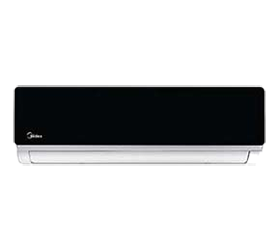
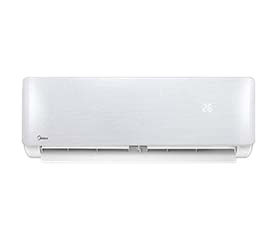
поменял карточки товаров и добавил строку в соцсети

Changed region(s): [[0.0286, 0.308, 0.9714, 0.672]]

diff --git a/index.html b/index.html
@@ -114,9 +114,9 @@
           </article>
           <!-- /.card -->
           <article class="card cards__card">
-            <h3 class="card__title">Midea HD-273</h3>
+            <h3 class="card__title">Midea HS-108</h3>
             <!-- /.card__title -->
-            <p class="card__description">Компактный холодильник с удобными полками для хранения продуктов. Двери со встроенными ручками и антибактериальным уплотнителем могут быть установлены с той стороны, с которой вам удобно их открывать.
+            <p class="card__description">Морозильник HS-108  имеет множество вариантов использования. Его можно поставить в офисе, в гостинице, в частном доме. Применяется техника для хранения продуктов в состоянии глубокой заморозки.
             </p>
             <a class="card__link" href="#">Подробнее</a>
             <!-- /.card__description -->
@@ -124,7 +124,7 @@
               <img class="card__img" src="img/cards/card-2.png" alt="Холодильник HD-273">
             </div>
             <div class="card__wrap">
-              <span class="card__price">295-305 у.е</span>
+              <span class="card__price">230 у.е</span>
               <button class="button card__button">Заказать</button></div>
             <!-- /.card__wrap -->
           </article>
@@ -148,11 +148,10 @@
           </article>
           <!-- /.card -->
           <article class="card cards__card">
-            <h3 class="card__title">Mirror *Low voltage 145-265v</h3>
+            <h3 class="card__title">Aurora *Low voltage 145-265v</h3>
             <!-- /.card__title -->
             <p class="card__description">
-              Кондиционер lux класса, с зеркальным дизайном. 
-              Главная составляющая сплит-системы - японский компрессор Toshiba, известен своей надежностью. А одним из важнейших преимуществ является встроенный стабилизатор, позволяющий работать даже при низком напряжении в электросети.
+              Современный кондиционер бизнес класса, имеет большой функционал с интересным дизайном. Главная составляющая сплит-системы - японский компрессор Toshiba, известен своей надежностью. А одним из важнейших преимуществ является встроенный стабилизатор, позволяющий работать даже при низком напряжении в электросети.
             </p>
             <a class="card__link" href="#">Подробнее</a>
             <!-- /.card__description -->
@@ -160,13 +159,26 @@
               <img class="card__img" src="img/cards/card-4.png" alt="Mirror *Low voltage 145-265v">
             </div>
             <div class="card__wrap">
-              <span class="card__price">470/780 у.е</span>
+              <span class="card__price">450/620/760 у.е</span>
               <button class="button card__button">Заказать</button></div>
             <!-- /.card__wrap -->
           </article>
           <!-- /.card -->
         </div>
         <!-- /.cards__wrap -->
+        <div class="more">
+          <h3 class="more__title">Еще больше товаров в наших группах в соц. сетях:</h3>
+          <div class="more__inner">
+            <a class="more__link" href="https://www.instagram.com/mediastore_uz">
+              <img class="more__img" src="img/cards/instagram.png" alt="instagram">
+            </a>
+            <a class="more__link" href="https://t.me/mediastore_uz">
+              <img class="more__img" src="img/cards/telegram.png" alt="telegram">
+            </a>
+          </div>
+          <!-- /.more__inner -->
+        </div>
+        <!-- /.more -->
       </div>
       <!-- /.container -->
     </section>

diff --git a/css/style.css b/css/style.css
@@ -441,6 +441,31 @@ a:hover {
 .card__link:hover {
   border-bottom: 1px dotted #707070;
 }
+/* больше товаров */
+.more {
+  display: -webkit-box;
+  display: -ms-flexbox;
+  display: flex;
+  -webkit-box-pack: center;
+      -ms-flex-pack: center;
+          justify-content: center;
+  -webkit-box-align: center;
+      -ms-flex-align: center;
+          align-items: center;
+}
+.more__title {
+  font-size: 2rem;
+  font-weight: normal;
+  text-align: center;
+}
+.more__link {
+  display: inline-block;
+  margin-left: 1.5rem;
+}
+.more__img {
+  width: 3rem;
+  height: 3rem;
+}
 @media (max-width: 1200px) {
   .card {
     max-width: 475px;
@@ -459,6 +484,15 @@ a:hover {
   }
   .cards__card {
     margin: 2rem;
+  }
+  .more {
+    -webkit-box-orient: vertical;
+    -webkit-box-direction: normal;
+        -ms-flex-direction: column;
+            flex-direction: column;
+  }
+  .more__inner {
+    margin-top: 1.5rem;
   }
 }
 /* скидка 10 % */

diff --git a/less/style.less b/less/style.less
@@ -434,6 +434,26 @@ a:hover {
     }
   }
 }
+/* больше товаров */
+.more {
+  display: flex;
+  justify-content: center;
+  align-items: center;
+  &__title {
+    font-size: 2rem;
+    font-weight: normal;
+    text-align: center;
+  }
+  &__link {
+    display: inline-block;
+    margin-left: 1.5rem;
+  }
+  &__img {
+    width: 3rem;
+    height: 3rem;
+  }
+}
+
 @media(max-width: 1200px) {
   .card {
     max-width: 475px;
@@ -453,7 +473,14 @@ a:hover {
       margin: 2rem;
     }
   }
+  .more {
+    flex-direction: column;
+    &__inner {
+      margin-top: 1.5rem;
+    }
+  }
 }
+
 /* скидка 10 % */
 .discount {
   padding-bottom: 8rem;
